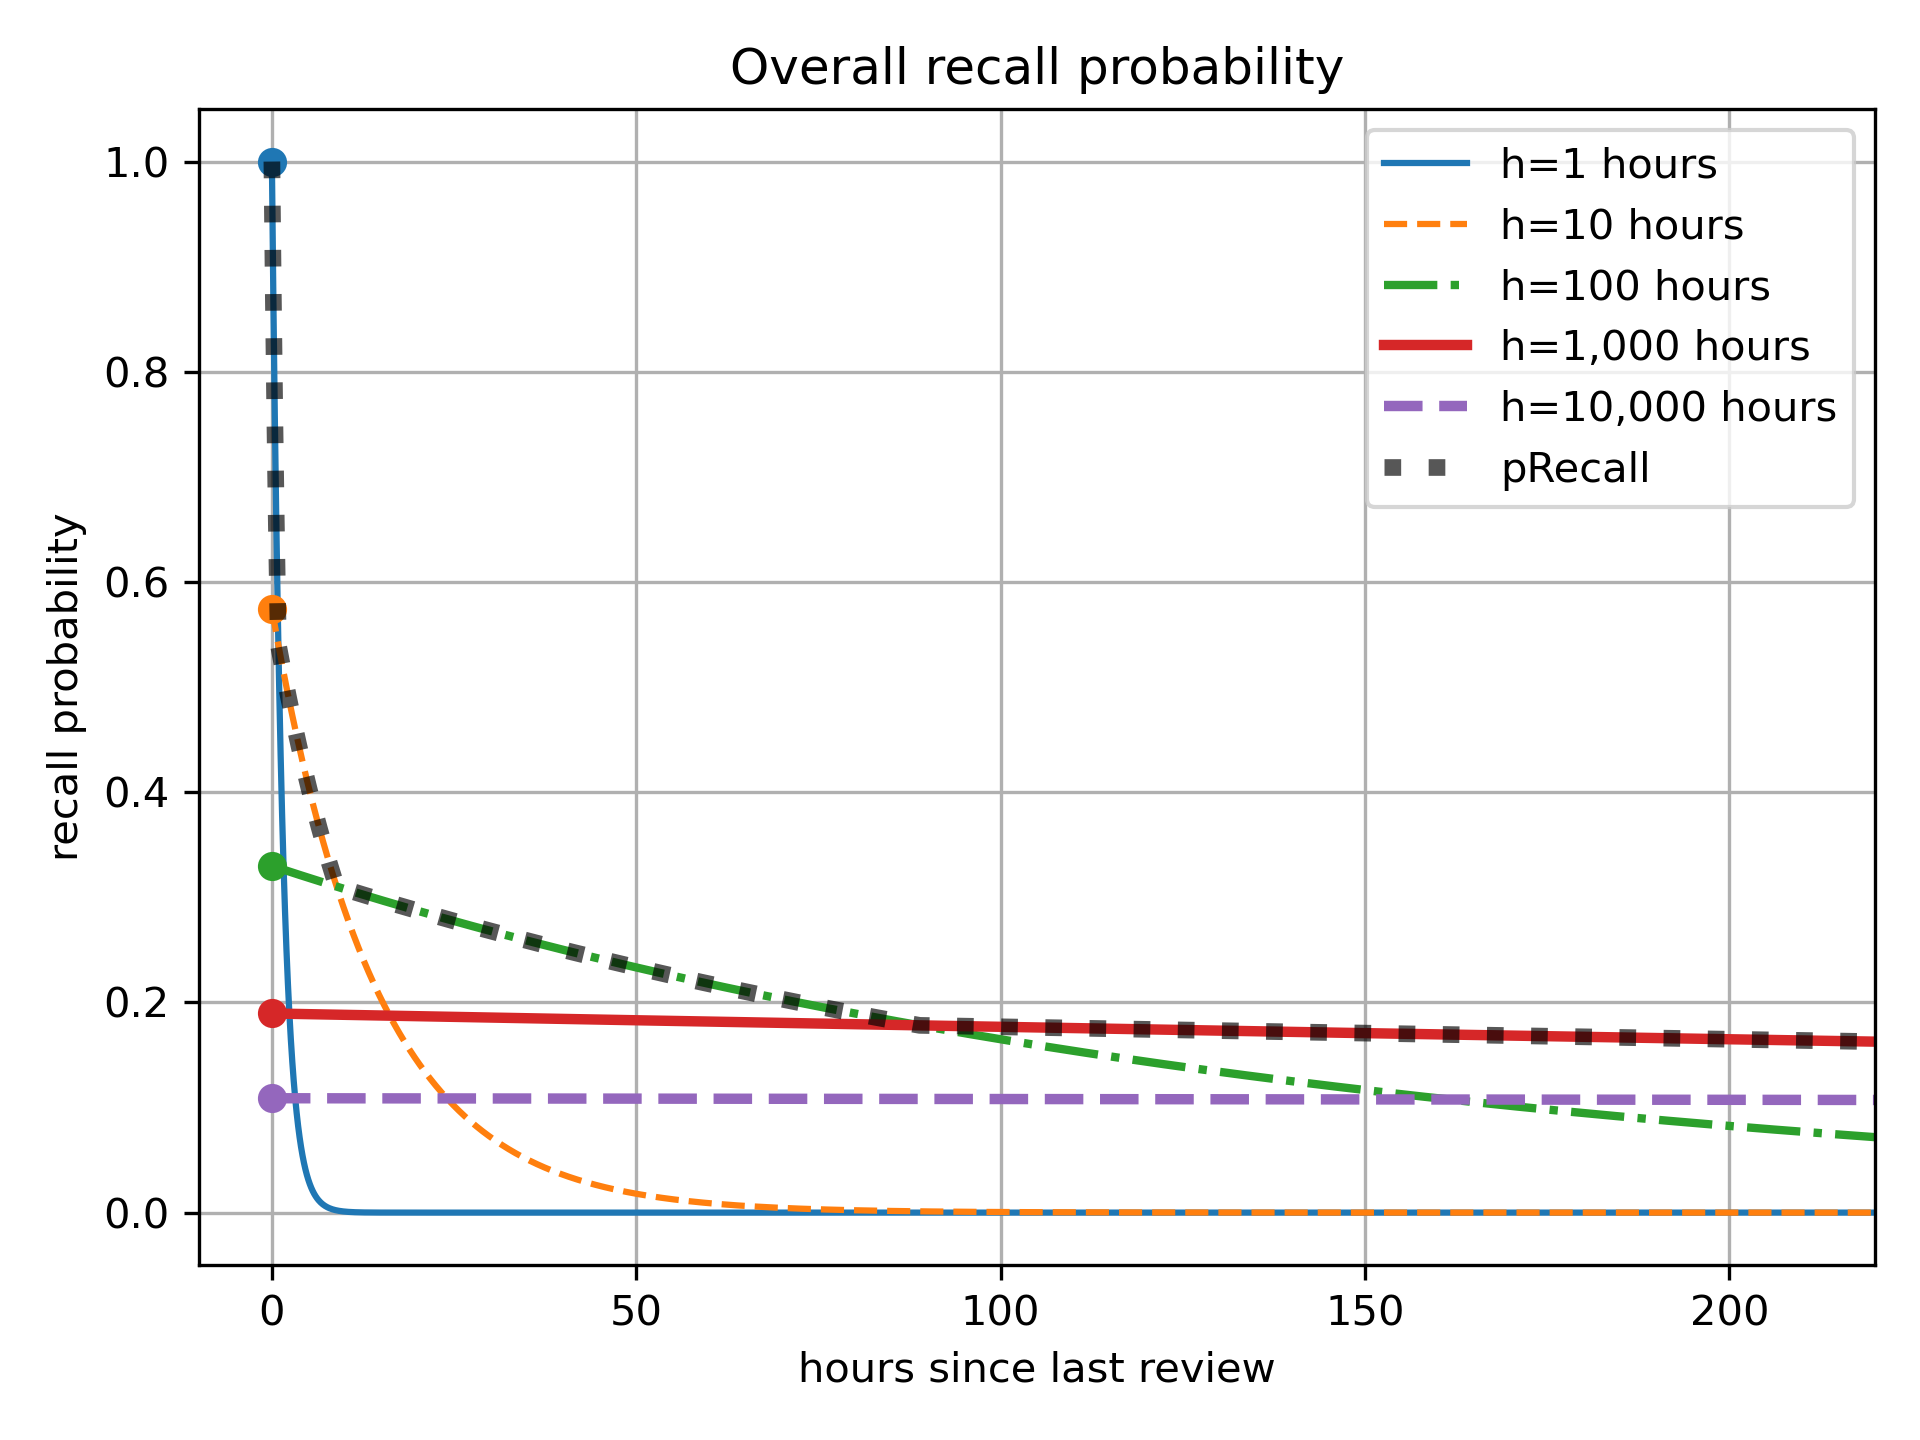
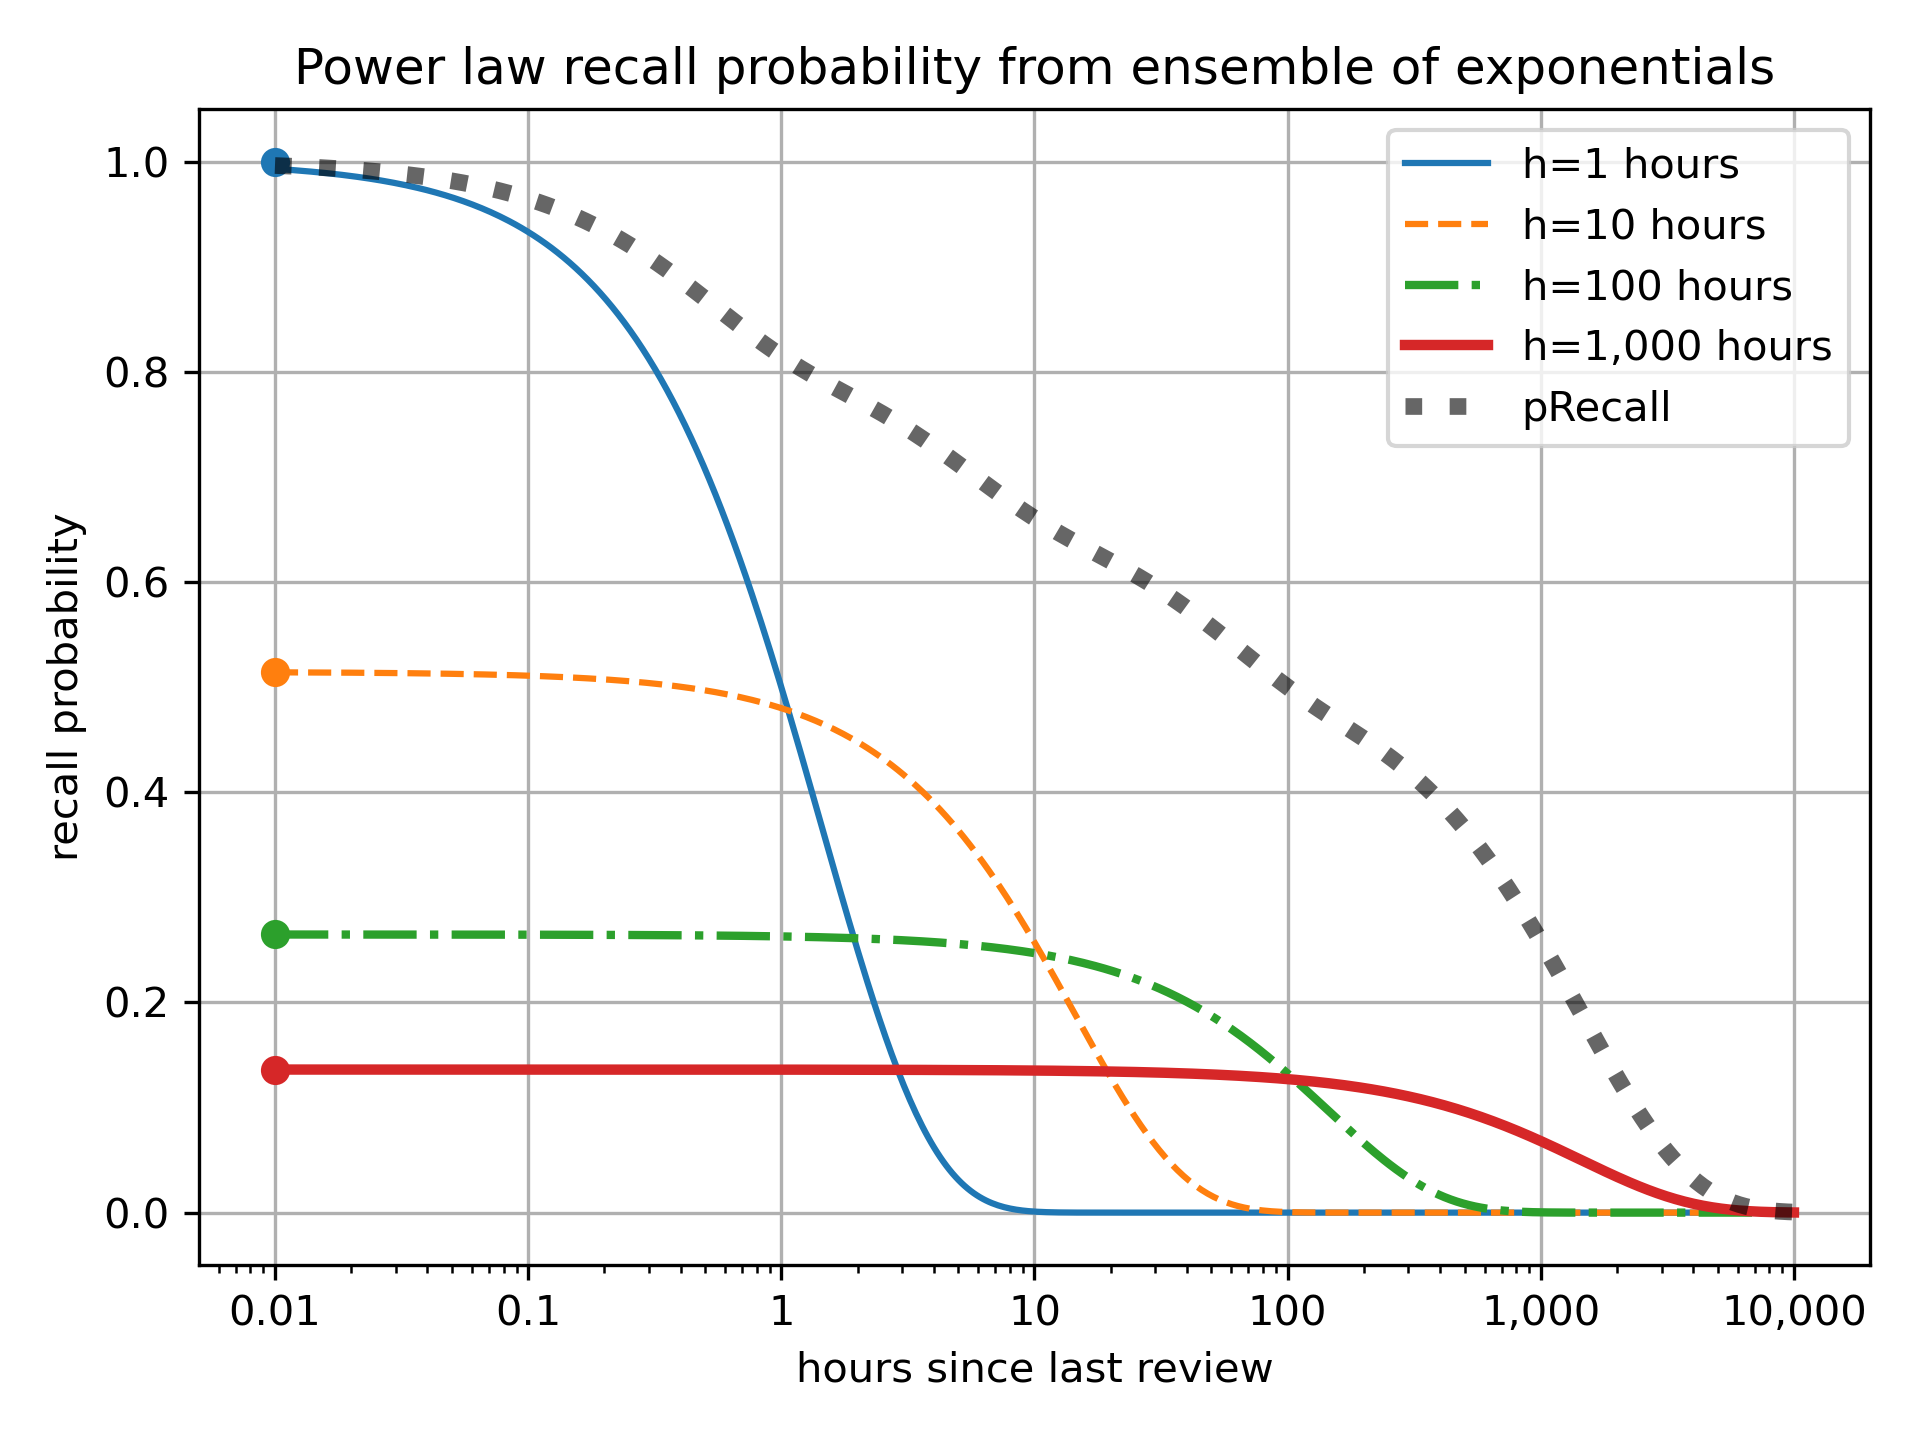
integrate q-norm everywhere

diff --git a/ebisu/ebisuHelpers.py b/ebisu/ebisuHelpers.py
@@ -15,7 +15,6 @@ class GammaUpdate:
 
 
 LN2 = log(2)
-# logsumexp: Callable[..., float] = logsumexp
 
 
 @cache
@@ -42,7 +41,7 @@ def gammaUpdateBinomial(a: float, b: float, t: float, k: int, n: int) -> GammaUp
 
   integrals = []
   for i in range(0, n - k + 1):
-    integrals.append(_intGammaPdfExp2(a + np.arange(3), b, tScaled * (k + i), logDomain=True))
+    integrals.append(_intGammaPdfExp(a + np.arange(3), b, tScaled * (k + i), logDomain=True))
 
   def logmoment(nth) -> float:
     loglik = []
@@ -51,7 +50,7 @@ def gammaUpdateBinomial(a: float, b: float, t: float, k: int, n: int) -> GammaUp
       loglik.append(_binomln(n - k, i) + integrals[i][nth])
       scales.append((-1)**i)
     res, sgn = logsumexp(loglik, b=scales, return_sign=True)
-    assert sgn>0
+    assert sgn > 0
     return res
 
   logm0 = logmoment(0)
@@ -64,14 +63,14 @@ def gammaUpdateBinomial(a: float, b: float, t: float, k: int, n: int) -> GammaUp
   return GammaUpdate(a=newAlpha, b=newBeta, mean=exp(logmean))
 
 
-def _intGammaPdf(a: float|np.ndarray, b: float, logDomain: bool):
+def _intGammaPdf(a: float | np.ndarray, b: float, logDomain: bool):
   # \int_0^∞ h^(a-1) \exp(-b h) dh$, via Wolfram Alpha, etc.
   if not logDomain:
     return b**(-a) * gamma(a)
   return -a * log(b) + gammaln(a)
 
 
-def _intGammaPdfExp2(av: list[float] | np.ndarray, b: float, c: float, logDomain: bool):
+def _intGammaPdfExp(av: list[float] | np.ndarray, b: float, c: float, logDomain: bool):
   "Returns $∫_0^∞ h^(a-1) e^{-b h - c / h} dh$, or its log"
   if c == 0:
     return _intGammaPdf(np.array(av), b, logDomain=logDomain)
@@ -83,41 +82,18 @@ def _intGammaPdfExp2(av: list[float] | np.ndarray, b: float, c: float, logDomain
 
   log = np.log
 
-  besselK2 = kv(av, z)
-  if np.all(np.isfinite(besselK2)):
-    ret2 = LN2 + (av * 0.5) * log(c / b) + np.log(besselK2)
-    return ret2
-
   # `kve = kv * exp(z)` -> `log(kve) = log(kv) + z` -> `log(kv) = log(kve) - z`
   besselK = kve(av, z)
-  if np.all(np.isfinite(besselK)):
-    ret1 = LN2 + log(c / b) * (av * 0.5) + log(besselK) - z
-    return ret1
+  if np.all(np.isfinite(besselK)) and np.all(besselK > 0):
+    return LN2 + log(c / b) * (av * 0.5) + log(besselK) - z
+
+  besselK2 = kv(av, z)
+  if np.all(np.isfinite(besselK2)) and np.all(besselK2 > 0):
+    return LN2 + (av * 0.5) * log(c / b) + np.log(besselK2)
 
   # Use large-order approximation https://dlmf.nist.gov/10.41 -> 10.41.2
   logBesselK = log(np.e * z / (2 * av)) * -av + 0.5 * log(np.pi / (2 * av))
-  ret3 = LN2 + log(c / b) * (av * 0.5) + logBesselK
-  return ret3
-
-
-def _intGammaPdfExp(a: float, b: float, c: float, logDomain: bool):
-  "Returns $∫_0^∞ h^(a-1) e^{-b h - c / h} dh$, or its log"
-  if c == 0:
-    return _intGammaPdf(a, b, logDomain=logDomain)
-
-  z = 2 * np.sqrt(b * c)  # arg to kv
-  if not logDomain:
-    return 2 * (c / b)**(a * 0.5) * kv(a, z)
-
-  if z < 400:
-    # `kve = kv * exp(z)` -> `log(kve) = log(kv) + z` -> `log(kv) = log(kve) - z`
-    besselK = kve(a, z)
-    if np.isfinite(besselK):
-      return LN2 + log(c / b) * (a * 0.5) + log(besselK) - z
-
-  # Use large-order approximation https://dlmf.nist.gov/10.41 -> 10.41.2
-  logBesselK = log(np.e * z / (2 * a)) * -a + 0.5 * log(np.pi / (2 * a))
-  return LN2 + log(c / b) * (a * 0.5) + logBesselK
+  return LN2 + log(c / b) * (av * 0.5) + logBesselK
 
 
 def gammaUpdateNoisy(a: float, b: float, t: float, q1: float, q0: float, z: bool) -> GammaUpdate:
@@ -139,7 +115,7 @@ def gammaUpdateNoisy(a: float, b: float, t: float, q1: float, q0: float, z: bool
   qz = (q0, q1) if z else (1 - q0, 1 - q1)
   tScaled = t * LN2
 
-  integrals = _intGammaPdfExp2(a + np.arange(3), b, tScaled, logDomain=True)
+  integrals = _intGammaPdfExp(a + np.arange(3), b, tScaled, logDomain=True)
 
   def logmoment(n):
     an = a + n
@@ -160,7 +136,7 @@ def gammaUpdateNoisy(a: float, b: float, t: float, q1: float, q0: float, z: bool
 
 
 def gammaPredictRecall(alpha: float, beta: float, hoursElapsed: float, logDomain: bool) -> float:
-  res = _intGammaPdfExp(alpha, beta, hoursElapsed * LN2, logDomain=logDomain)
+  res = _intGammaPdfExp([alpha], beta, hoursElapsed * LN2, logDomain=logDomain)[0]
   if logDomain:
     return res + alpha * log(beta) - gammaln(alpha)
   return res * (beta**alpha) / gamma(alpha)

diff --git a/ebisu/ebisu.py b/ebisu/ebisu.py
@@ -4,7 +4,7 @@ import numpy as np
 from copy import deepcopy
 from typing import Callable, Union, Optional
 from itertools import takewhile
-from scipy.optimize import golden
+from scipy.optimize import minimize_scalar
 from scipy.special import logsumexp
 
 from .models import BinomialResult, HalflifeGamma, Model, NoisyBinaryResult, Predict, Quiz, Result
@@ -211,13 +211,20 @@ def predictRecallSemiBayesian(
   now = now if now is not None else timeMs()
   elapsedHours = (now - model.pred.lastEncounterMs) * HOURS_PER_MILLISECONDS
   assert elapsedHours >= 0, "cannot go back in time"
-  l = [
-      log2w * LN2 + gammaPredictRecall(alpha, beta, elapsedHours, True)
-      for (alpha, beta), log2w in zip(model.pred.halflifeGammas, model.pred.log2weights)
-  ]
+  if model.pred.power is not None:
+    l = [
+        gammaPredictRecall(alpha, beta, elapsedHours, True)
+        for (alpha, beta) in model.pred.halflifeGammas
+    ]
+    logPrecall = _powerMeanLogW(l, model.pred.power, np.exp2(model.pred.log2weights))
+  else:
+    l = [
+        log2w * LN2 + gammaPredictRecall(alpha, beta, elapsedHours, True)
+        for (alpha, beta), log2w in zip(model.pred.halflifeGammas, model.pred.log2weights)
+    ]
+    logPrecall = max(l)
   if extra is not None:
     extra['indiv'] = l
-  logPrecall = max(l)
   assert np.isfinite(logPrecall) and logPrecall <= 0
   return logPrecall if logDomain else np.exp(logPrecall)
 
@@ -235,10 +242,18 @@ def predictRecallMonteCarlo(
 
   from scipy.stats import gamma as grv
   gammas = [grv(a, scale=1 / b) for a, b in model.pred.halflifeGammas]
-  logp = np.max((np.array(model.pred.log2weights)[:, np.newaxis] -
-                 elapsedHours / np.vstack([g.rvs(size=size) for g in gammas])),
-                axis=0)
-  p = np.exp2(logp)
+  if model.pred.power is not None:
+    ws = np.exp2(model.pred.log2weights)
+    ws /= sum(ws)
+    hmat = np.vstack([g.rvs(size=size) for g in gammas])
+    p = np.sum(
+        ws[:, np.newaxis] * np.exp2(-elapsedHours / hmat * model.pred.power),
+        axis=0)**(1 / model.pred.power)
+  else:
+    logp = np.max((np.array(model.pred.log2weights)[:, np.newaxis] -
+                   elapsedHours / np.vstack([g.rvs(size=size) for g in gammas])),
+                  axis=0)
+    p = np.exp2(logp)
   expectation = np.mean(p)
   if extra is not None:
     extra['std'] = np.std(p)
@@ -267,8 +282,9 @@ def _halflifeToFinalWeight(halflife: float,
       ws = wfinal**ivec
       return abs(lp - _powerMeanLogW(logv, pow, ws))
 
-    res = golden(opt, brack=[1e-4, 1 - 1e-4], tol=1e-14)
-    return (res**ivec).tolist()
+    res = minimize_scalar(opt, bounds=[1e-4, 1 - 1e-4])
+    assert res.success
+    return (res.x**ivec).tolist()
 
   if n == 1:
     return _makeWs(n, 1.0).tolist()
@@ -299,10 +315,6 @@ def hoursForRecallDecay(model: Model, percentile=0.5) -> float:
   # max above will ALWAYS get at least one result given percentile ∈ (0, 1]
 
 
-def _powerMean(v: list[float] | np.ndarray, p: int | float) -> float:
-  return float(np.mean(np.array(v)**p)**(1 / p))
-
-
 def _gammaToMean(alpha: float, beta: float) -> float:
   return alpha / beta
 
@@ -329,6 +341,15 @@ def _powerMeanLogW(logv: list[float] | np.ndarray,
   "same as _powerMean but pass in log (base e) of `v`"
   logv = np.array(logv)
   ws = np.array(ws) / np.sum(ws) if ws is not None else [1 / logv.size] * logv.size
-  res, sgn = logsumexp(p * logv, b=ws)
+  res, sgn = logsumexp(p * logv, b=ws, return_sign=True)
   assert sgn > 0
   return float(res / p)
+
+
+def _powerMean(v: list[float] | np.ndarray, p: int | float) -> float:
+  return float(np.mean(np.array(v)**p)**(1 / p))
+
+
+def _powerMeanW(v: list[float] | np.ndarray, p: int | float, ws: list[float] | np.ndarray) -> float:
+  ws = np.array(ws) / np.sum(ws)
+  return float(sum(np.array(v)**p * ws))**(1 / p)

diff --git a/readme_plots_halflife.py b/readme_plots_halflife.py
@@ -7,12 +7,17 @@ from ebisu.ebisu import _meanVarToGamma
 
 plt.ion()
 
-n = 5
-weights = np.logspace(0, -.5, n)
-means = np.logspace(0, 4, n)
+norm = lambda v: np.array(v) / np.sum(v)
+
+hs = np.logspace(0, 4, 5)
+hl = 20
+power = 4
+ws = ebisu.ebisu._halflifeToFinalWeight(hl, hs, power)
+ws = norm(ws)
 
 m = ebisu.initModel(
-    weightsHalflifeGammas=[(w, _meanVarToGamma(m, (m * .5)**2)) for w, m in zip(weights, means)],
+    power=power,
+    weightsHalflifeGammas=[(w, _meanVarToGamma(h, (h * .5)**2)) for w, h in zip(ws, hs)],
     now=0)
 
 if not True:
@@ -28,14 +33,14 @@ if not True:
           ((4.0, 4e-05), -2.353669592990435)]
   m = ebisu.initModel(weightsHalflifeGammas=[(np.exp2(w), ab) for ab, w in args], now=0)
 
-t = np.logspace(-2, 5, 601)
+t = np.logspace(-2, 5, 201)
 
 mc: list[float] = []
 mcErr: list[float] = []
 
 extra = dict()
 for h in t:
-  res = ebisu.predictRecallMonteCarlo(m, now=3600e3 * h, size=1_000, logDomain=False, extra=extra)
+  res = ebisu.predictRecallMonteCarlo(m, now=3600e3 * h, size=10_000, logDomain=False, extra=extra)
   mc.append(res)
   mcErr.append(extra['std'])
 
@@ -48,17 +53,17 @@ plt.plot(t, semibayes, label='Semi Bayes', alpha=.9)
 plt.plot(t, approx, label='Full Approx', alpha=0.6, linewidth=3)
 
 plt.gca().set_xscale("log")
-plt.gca().set_yscale("log")
+plt.gca().set_yscale("linear")
+
+plt.xlabel('hours since last review')
+plt.ylabel('recall probability')
+plt.title('Overall recall probability')
+plt.legend()
+plt.grid()
 
 if not True:
   plt.ylim([.09, 1.2])
   plt.xlim([.05, 10e3])
-
-  plt.xlabel('hours since last review')
-  plt.ylabel('recall probability')
-  plt.title('Overall recall probability')
-  plt.legend()
-  plt.grid()
 
   ax = plt.gca()
   fixupx = lambda vec: [re.sub(r'.0$', '', f'{x:,}') for x in vec]
@@ -73,15 +78,14 @@ if not True:
   plt.savefig('predictRecall-approx.png', dpi=300)
   plt.savefig('predictRecall-approx.svg')
 
-  plt.figure()
-  plt.semilogx(t, np.array(semibayes) / np.array(mc), label='SemiBayes vs MC')
-  plt.semilogx(t, np.array(approx) / np.array(mc), label='FullApprox vs MC')
-  plt.legend()
-  plt.grid()
+fig, axs = plt.subplots(2, 1)
+axs[0].semilogx(t, np.array(semibayes) / np.array(mc), label='SemiBayes vs MC')
+axs[0].semilogx(t, np.array(approx) / np.array(mc), label='FullApprox vs MC')
+axs[0].legend()
+axs[0].grid()
 
-  relerr = lambda act, exp: np.abs((np.array(act) - np.array(exp)) / np.array(exp))
-  plt.figure()
-  plt.loglog(t, relerr(semibayes, mc), label='SemiBayes vs MC')
-  plt.loglog(t, relerr(approx, mc), label='FullApprox vs MC')
-  plt.legend()
-  plt.grid()
+relerr = lambda act, exp: np.abs((np.array(act) - np.array(exp)) / np.array(exp))
+axs[1].loglog(t, relerr(semibayes, mc), label='SemiBayes vs MC')
+axs[1].loglog(t, relerr(approx, mc), label='FullApprox vs MC')
+axs[1].legend()
+axs[1].grid()

diff --git a/readme_plots.py b/readme_plots.py
@@ -3,23 +3,23 @@ import numpy as np
 import ebisu
 import pylab as plt
 
+from ebisu.ebisu import _meanVarToGamma
+
 plt.ion()
+norm = lambda v: np.array(v) / np.sum(v)
 
-hs = np.logspace(0, 4, 5)
-hl = 2
-ws = ebisu.ebisu._halflifeToFinalWeight(hl, hs)
+hs = np.logspace(0, 3, 4)
+hl = 100
+power = 4
+ws = ebisu.ebisu._halflifeToFinalWeight(hl, hs, power)
+# ws = norm(ws)
 
-plt.figure()
-plt.plot(hs, ws, 'o-')
-plt.xlabel('halflife (hours)')
-plt.ylabel('weight (unitless)')
-plt.suptitle(f'Weights per halflife')
-plt.ylim([0, np.max(plt.ylim())])
-plt.grid()
-plt.savefig('leaky-integrators-weights.png', dpi=300)
-plt.savefig('leaky-integrators-weights.svg')
+m = ebisu.initModel(
+    power=power,
+    weightsHalflifeGammas=[(w, _meanVarToGamma(h, (h * .5)**2)) for w, h in zip(ws, hs)],
+    now=0)
 
-ts = np.linspace(0, 10000, 100001)
+ts = np.logspace(-2, 4, 501)
 
 styles = [('-', 1.5), ('--', 1.5), ('-.', 2), ('-', 2.5), ('--', 2.5)]
 plt.figure()
@@ -32,33 +32,22 @@ for w, h, style in zip(ws, hs, styles):
       label=f'{h=:,g} hours')
   plt.plot(ts[0], w, marker='o', color=ret.get_color())
 
-arr = np.exp2(-ts[:, np.newaxis] * (1 / hs[np.newaxis, :])) * ws
-plt.plot(
-    ts, np.max(arr, axis=1), linewidth=4, color='black', alpha=0.66, linestyle=':', label='pRecall')
+pRecalls = [ebisu.predictRecall(m, now=3600e3 * t, logDomain=False) for t in ts]
+plt.plot(ts, pRecalls, 'k:', alpha=0.6, linewidth=4, label='pRecall')
+
+plt.grid()
 plt.legend()
+plt.gca().set_xscale("log")
+
 plt.xlabel('hours since last review')
 plt.ylabel('recall probability')
-plt.title('Overall recall probability')
-plt.grid()
-plt.xlim([-10, 220])
-plt.tight_layout()
-
-plt.savefig('leaky-integrators-precall.png', dpi=300)
-plt.savefig('leaky-integrators-precall.svg')
-
-plt.gca().set_xscale("log")
-plt.gca().set_yscale("log")
-plt.ylim([.05, 1.2])
-plt.xlim([1e-1, 1e4])
-
-plt.hlines([0.5], np.min(plt.xlim()), hl, color=(.1, .1, .1), alpha=0.4, linestyles='dotted')
-plt.vlines([hl], np.min(plt.ylim()), 0.5, color=(.1, .1, .1), alpha=0.4, linestyles='dotted')
+plt.title('Power law recall probability from ensemble of exponentials')
 
 ax = plt.gca()
 fixup = lambda vec: [re.sub(r'.0$', '', f'{x:,}') for x in vec]
 ax.set_xticklabels(fixup(ax.get_xticks()))
-ax.set_yticklabels(fixup(ax.get_yticks()))
 
 plt.tight_layout()
-plt.savefig('leaky-integrators-precall-loglog.png', dpi=300)
-plt.savefig('leaky-integrators-precall-loglog.svg')
+
+plt.savefig('leaky-integrators-precall.png', dpi=300)
+plt.savefig('leaky-integrators-precall.svg')

diff --git a/wmaxbetas.py b/wmaxbetas.py
@@ -86,8 +86,8 @@ if __name__ == '__main__':
   # fracs = [1.0]
   fracs = [0.7, 0.75, 0.8, 0.85, 0.9, 0.95, 1.]
   # fracs = [0.75]
-  # for card in [next(t for t in train if t.fractionCorrect >= frac) for frac in fracs]:
-  for card in train:
+  for card in [next(t for t in train if t.fractionCorrect >= frac) for frac in fracs]:
+    # for card in train:
     hlMeanStd = (24., 24 * .7)
     boostMeanStd = (3, 3 * .7)
     convertMode: ConvertAnkiMode = 'binary'
